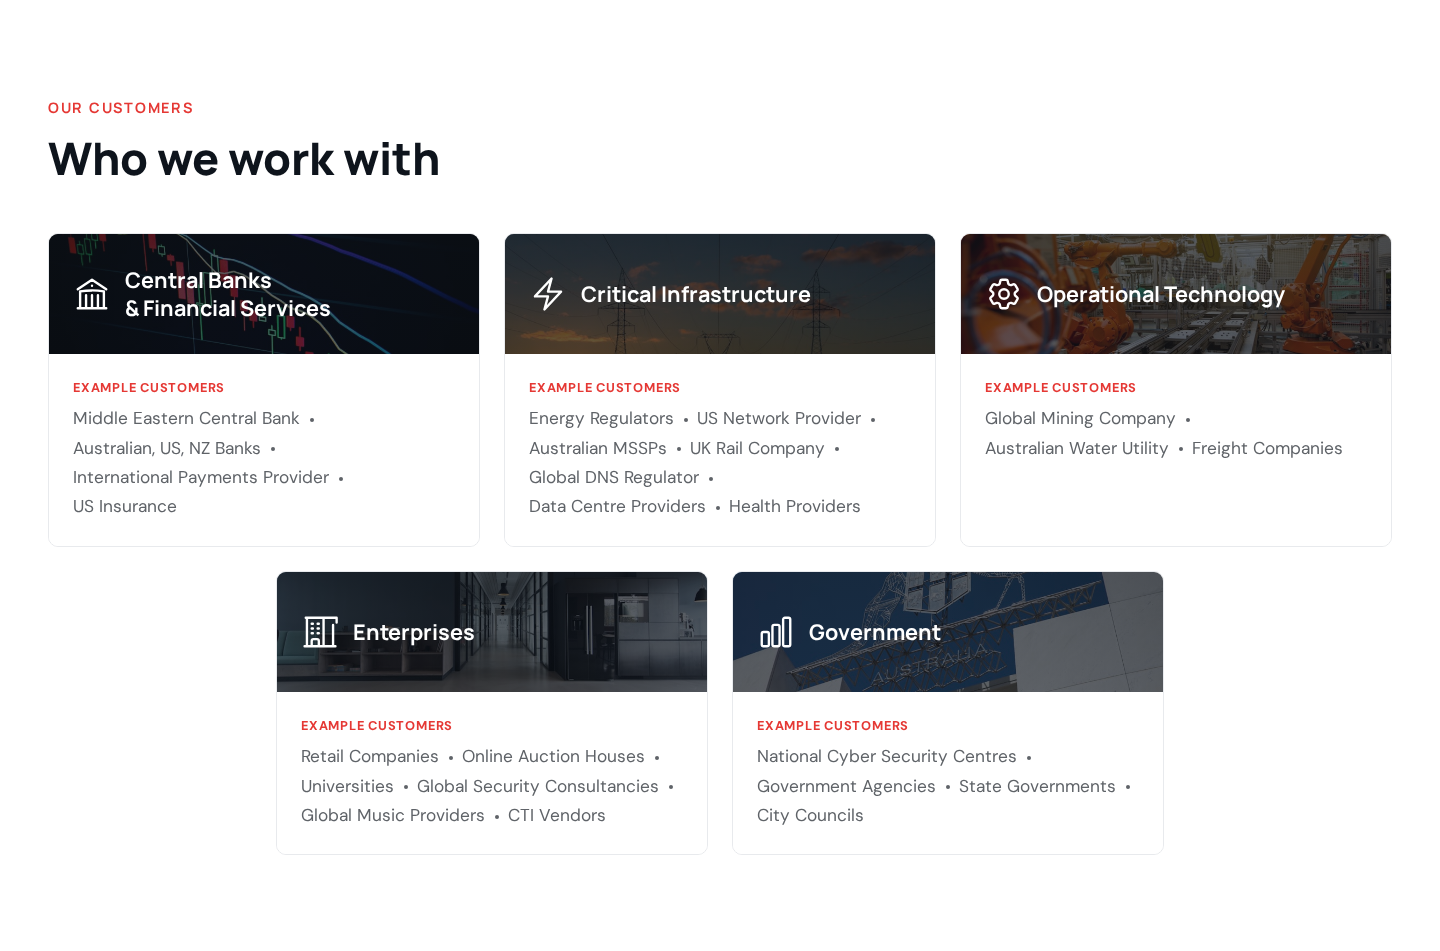
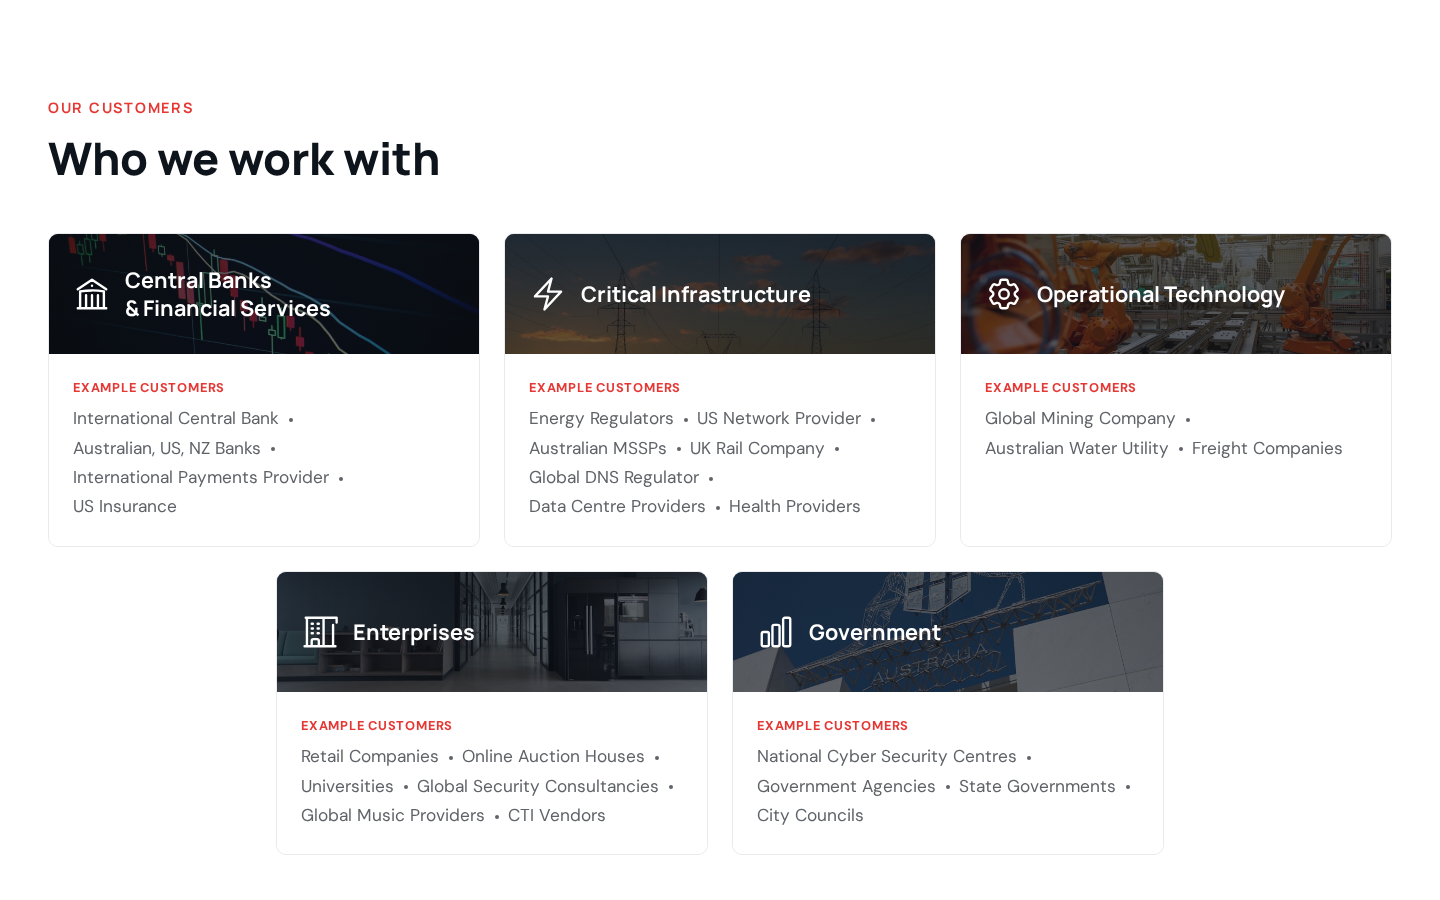
Replace "Middle Eastern Central Bank" with "International Central Bank"
Vaguer attribution to avoid sensitivity concerns.
Updated across all customer concept pages and mockup10,
plus refreshed preview screenshots.

Changed region(s): [[0.0312, 0.0933, 0.9688, 0.9333]]

diff --git a/customers-concept-e.html b/customers-concept-e.html
@@ -349,7 +349,7 @@
             <div class="slide-title">Central Banks &amp; Financial Services</div>
           </div>
           <div class="slide-customers-label">Example customers</div>
-          <div class="slide-customers"><span>Middle Eastern Central Bank<svg class="dot" viewBox="0 0 4 4"><circle cx="2" cy="2" r="2" fill="currentColor"/></svg></span> <span>Australian, US, NZ Banks<svg class="dot" viewBox="0 0 4 4"><circle cx="2" cy="2" r="2" fill="currentColor"/></svg></span> <span>International Payments Provider<svg class="dot" viewBox="0 0 4 4"><circle cx="2" cy="2" r="2" fill="currentColor"/></svg></span> <span>US Insurance</span></div>
+          <div class="slide-customers"><span>International Central Bank<svg class="dot" viewBox="0 0 4 4"><circle cx="2" cy="2" r="2" fill="currentColor"/></svg></span> <span>Australian, US, NZ Banks<svg class="dot" viewBox="0 0 4 4"><circle cx="2" cy="2" r="2" fill="currentColor"/></svg></span> <span>International Payments Provider<svg class="dot" viewBox="0 0 4 4"><circle cx="2" cy="2" r="2" fill="currentColor"/></svg></span> <span>US Insurance</span></div>
         </div>
 
         <div class="slide" data-index="1">

diff --git a/customers-concept-f.html b/customers-concept-f.html
@@ -176,7 +176,7 @@
     </div>
     <div class="panel-right">
       <div class="panel-customers-label">Example customers</div>
-      <div class="panel-customers"><span>Middle Eastern Central Bank<svg class="dot" viewBox="0 0 4 4"><circle cx="2" cy="2" r="2" fill="currentColor"/></svg></span> <span>Australian, US, NZ Banks<svg class="dot" viewBox="0 0 4 4"><circle cx="2" cy="2" r="2" fill="currentColor"/></svg></span> <span>International Payments Provider<svg class="dot" viewBox="0 0 4 4"><circle cx="2" cy="2" r="2" fill="currentColor"/></svg></span> <span>US Insurance</span></div>
+      <div class="panel-customers"><span>International Central Bank<svg class="dot" viewBox="0 0 4 4"><circle cx="2" cy="2" r="2" fill="currentColor"/></svg></span> <span>Australian, US, NZ Banks<svg class="dot" viewBox="0 0 4 4"><circle cx="2" cy="2" r="2" fill="currentColor"/></svg></span> <span>International Payments Provider<svg class="dot" viewBox="0 0 4 4"><circle cx="2" cy="2" r="2" fill="currentColor"/></svg></span> <span>US Insurance</span></div>
     </div>
   </div>
 </div>

diff --git a/customers-concept-d.html b/customers-concept-d.html
@@ -178,7 +178,7 @@
       </div>
       <div class="card-bottom">
         <div class="card-label">Example customers</div>
-        <div class="card-customers"><span>Middle Eastern Central Bank<svg class="dot" viewBox="0 0 4 4"><circle cx="2" cy="2" r="2" fill="currentColor"/></svg></span> <span>Australian, US, NZ Banks<svg class="dot" viewBox="0 0 4 4"><circle cx="2" cy="2" r="2" fill="currentColor"/></svg></span> <span>International Payments Provider<svg class="dot" viewBox="0 0 4 4"><circle cx="2" cy="2" r="2" fill="currentColor"/></svg></span> <span>US Insurance</span></div>
+        <div class="card-customers"><span>International Central Bank<svg class="dot" viewBox="0 0 4 4"><circle cx="2" cy="2" r="2" fill="currentColor"/></svg></span> <span>Australian, US, NZ Banks<svg class="dot" viewBox="0 0 4 4"><circle cx="2" cy="2" r="2" fill="currentColor"/></svg></span> <span>International Payments Provider<svg class="dot" viewBox="0 0 4 4"><circle cx="2" cy="2" r="2" fill="currentColor"/></svg></span> <span>US Insurance</span></div>
       </div>
     </div>
 

diff --git a/customers-concept-c.html b/customers-concept-c.html
@@ -181,7 +181,7 @@
       </div>
       <div class="row-right">
         <div class="row-label">Example customers</div>
-        <div class="row-customers"><span>Middle Eastern Central Bank<svg class="dot" viewBox="0 0 4 4"><circle cx="2" cy="2" r="2" fill="currentColor"/></svg></span> <span>Australian, US, NZ Banks<svg class="dot" viewBox="0 0 4 4"><circle cx="2" cy="2" r="2" fill="currentColor"/></svg></span> <span>International Payments Provider<svg class="dot" viewBox="0 0 4 4"><circle cx="2" cy="2" r="2" fill="currentColor"/></svg></span> <span>US Insurance</span></div>
+        <div class="row-customers"><span>International Central Bank<svg class="dot" viewBox="0 0 4 4"><circle cx="2" cy="2" r="2" fill="currentColor"/></svg></span> <span>Australian, US, NZ Banks<svg class="dot" viewBox="0 0 4 4"><circle cx="2" cy="2" r="2" fill="currentColor"/></svg></span> <span>International Payments Provider<svg class="dot" viewBox="0 0 4 4"><circle cx="2" cy="2" r="2" fill="currentColor"/></svg></span> <span>US Insurance</span></div>
       </div>
     </div>
 

diff --git a/mockup10.html b/mockup10.html
@@ -1221,7 +1221,7 @@
           <div class="customer-refs">
             <div class="customer-refs-label">Example customers</div>
             <div class="customer-badges">
-              <span class="customer-badge">Middle Eastern Central Bank</span>
+              <span class="customer-badge">International Central Bank</span>
               <span class="customer-badge">Australian, US, NZ Banks</span>
               <span class="customer-badge">International Payments Provider</span>
               <span class="customer-badge">US Insurance</span>
